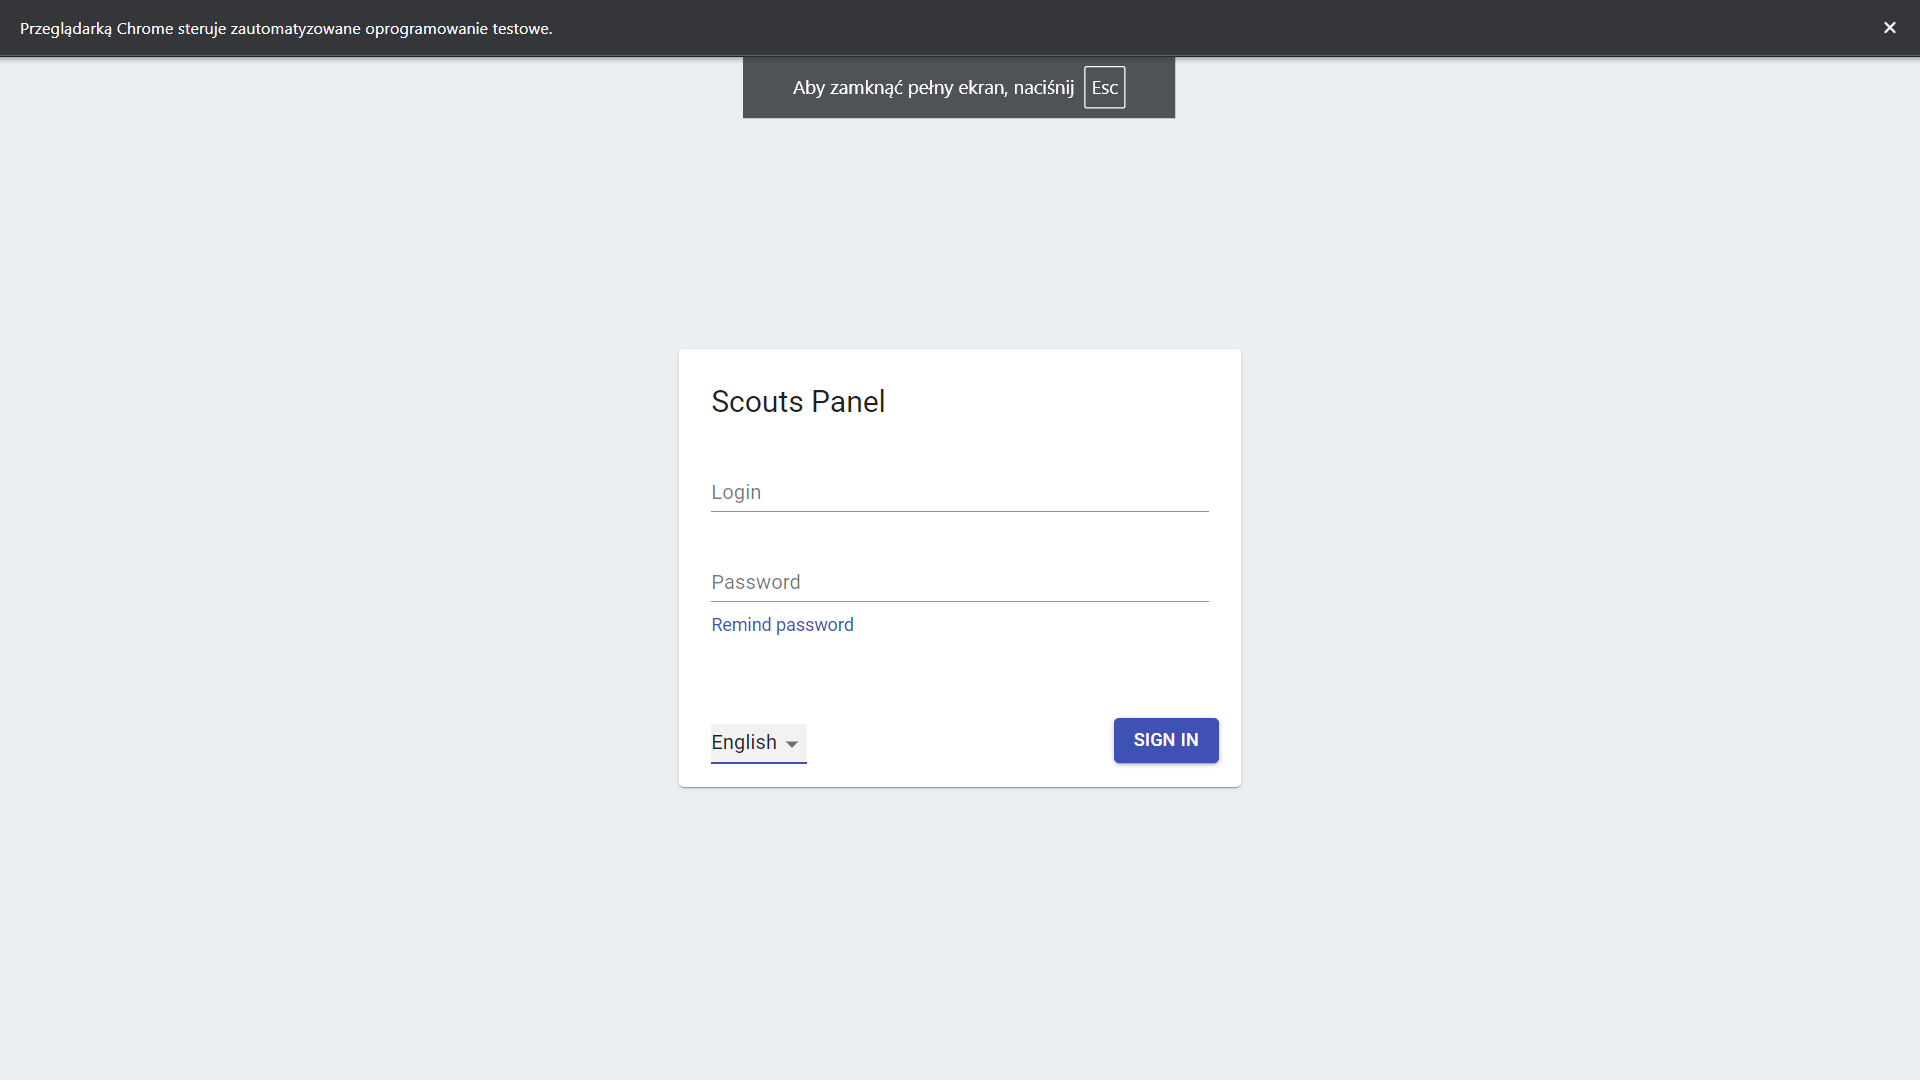
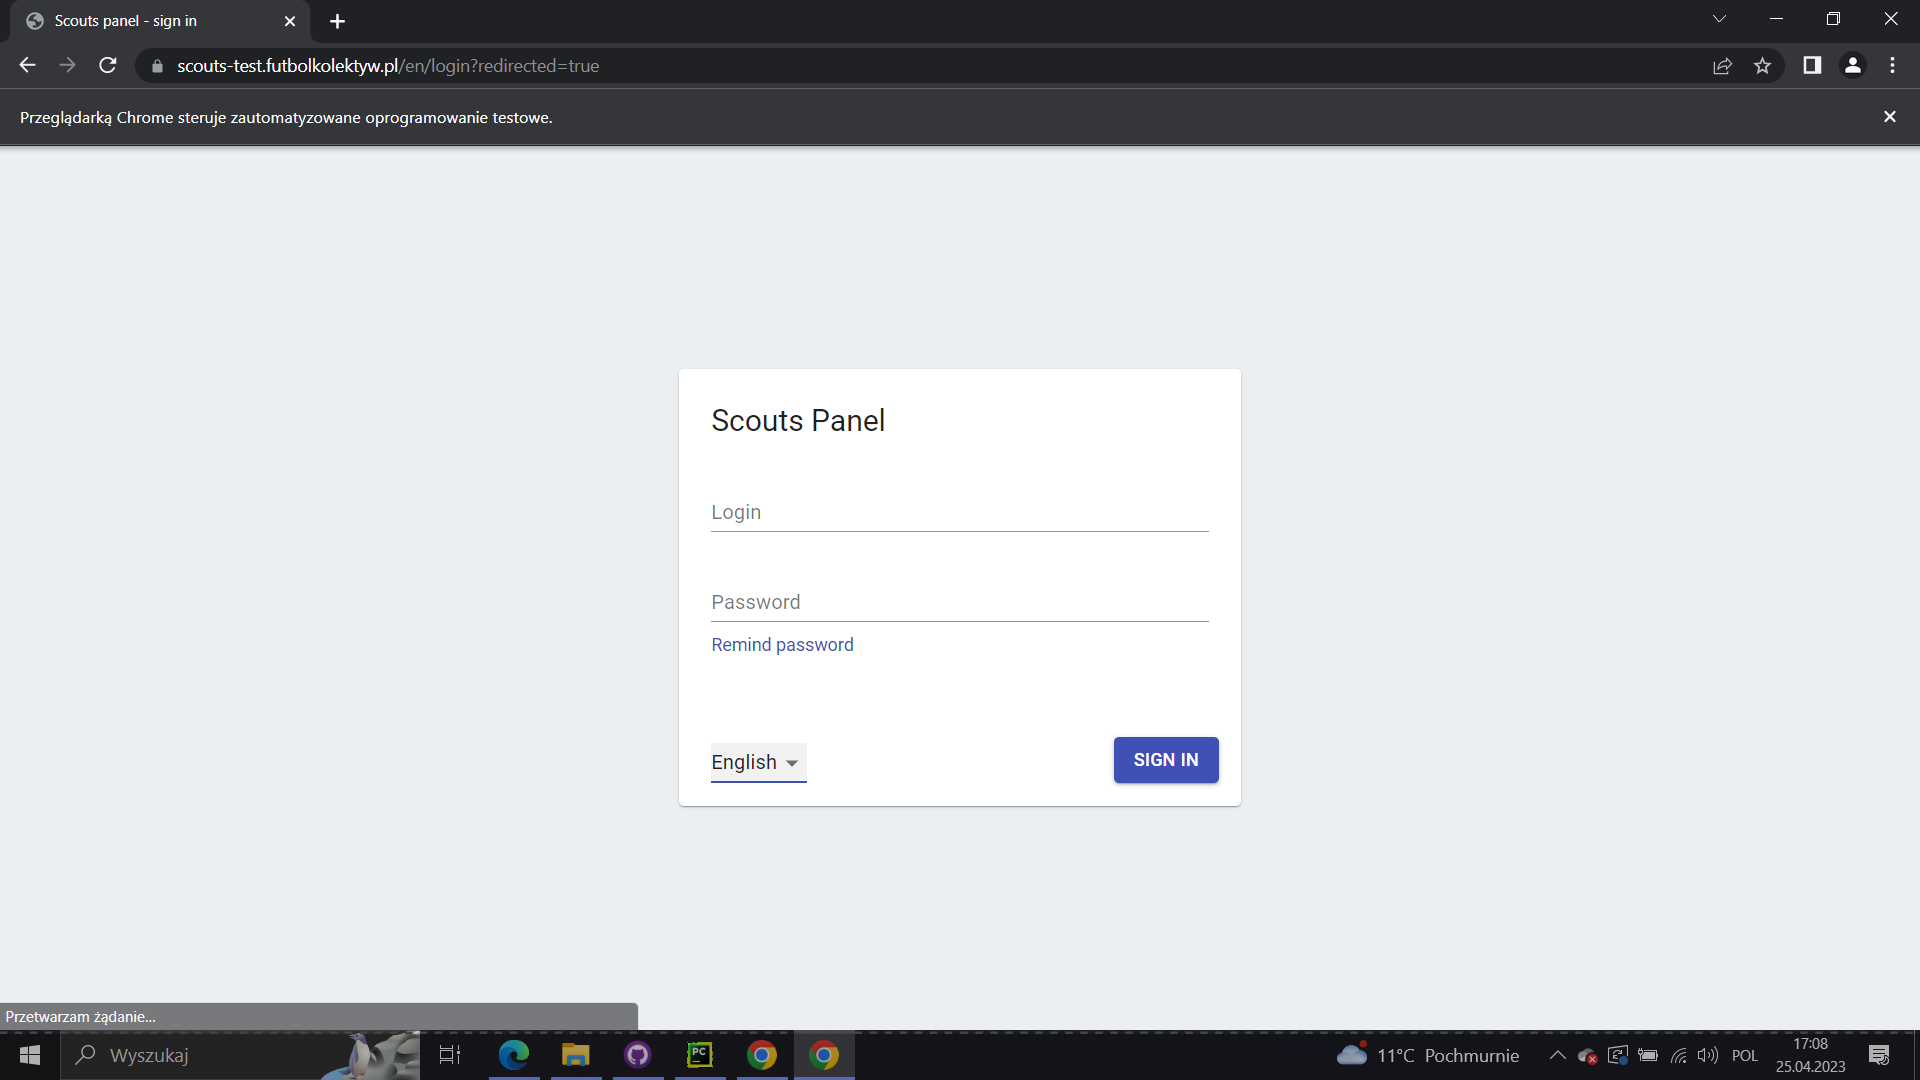
zadanie 4 podzadanie 5/1

diff --git a/pages/login_page.py b/pages/login_page.py
@@ -1,3 +1,5 @@
+import time
+
 from pages.base_page import BasePage
 
 
@@ -90,3 +92,11 @@ class LoginPage(BasePage):
     def title_of_validation(self):
         self.assert_element_text(self.driver, self.title_of_validation_xpath,
                                  self.expected_title_of_validation)
+
+    def select_language(self, language):
+        self.click_on_the_element(self.language_select_menu_xpath)
+        time.sleep(1)
+        if language == "english":
+            self.click_on_the_element(self.english_option)
+        else:
+            self.click_on_the_element(self.polish_option)

diff --git a/test_cases/adding_a_match.py b/test_cases/adding_a_match.py
@@ -21,7 +21,7 @@ class TestAddingAMatch(unittest.TestCase):
         os.chmod(DRIVER_PATH, 755)
         self.driver = webdriver.Chrome(executable_path=DRIVER_PATH)
         self.driver.get('https://scouts-test.futbolkolektyw.pl/en')
-        self.driver.fullscreen_window()
+        self.driver.maximize_window()
         self.driver.implicitly_wait(IMPLICITLY_WAIT)
 
     def test_redirect_to_the_add_match_form(self):

diff --git a/test_cases/searching_players.py b/test_cases/searching_players.py
@@ -21,7 +21,7 @@ class TestPlayersTable(unittest.TestCase):
         os.chmod(DRIVER_PATH, 755)
         self.driver = webdriver.Chrome(executable_path=DRIVER_PATH)
         self.driver.get('https://scouts-test.futbolkolektyw.pl/en')
-        self.driver.fullscreen_window()
+        self.driver.maximize_window()
         self.driver.implicitly_wait(IMPLICITLY_WAIT)
 
         super(TestPlayersTable, self).setUp(self)

diff --git a/test_cases/login_to_the_system.py b/test_cases/login_to_the_system.py
@@ -16,7 +16,7 @@ class TestLoginPage(unittest.TestCase):
         os.chmod(DRIVER_PATH, 755)
         self.driver = webdriver.Chrome(executable_path=DRIVER_PATH)
         self.driver.get('https://scouts-test.futbolkolektyw.pl/en')
-        self.driver.fullscreen_window()
+        self.driver.maximize_window()
         self.driver.implicitly_wait(IMPLICITLY_WAIT)
 
         super(TestLoginPage, self).setUp(self)

diff --git a/test_cases/adding_new_player.py b/test_cases/adding_new_player.py
@@ -20,7 +20,7 @@ class TestAddPlayerForm(unittest.TestCase):
         os.chmod(DRIVER_PATH, 755)
         self.driver = webdriver.Chrome(executable_path=DRIVER_PATH)
         self.driver.get('https://scouts-test.futbolkolektyw.pl/en')
-        self.driver.fullscreen_window()
+        self.driver.maximize_window()
         self.driver.implicitly_wait(IMPLICITLY_WAIT)
 
     def test_add_a_player(self):
